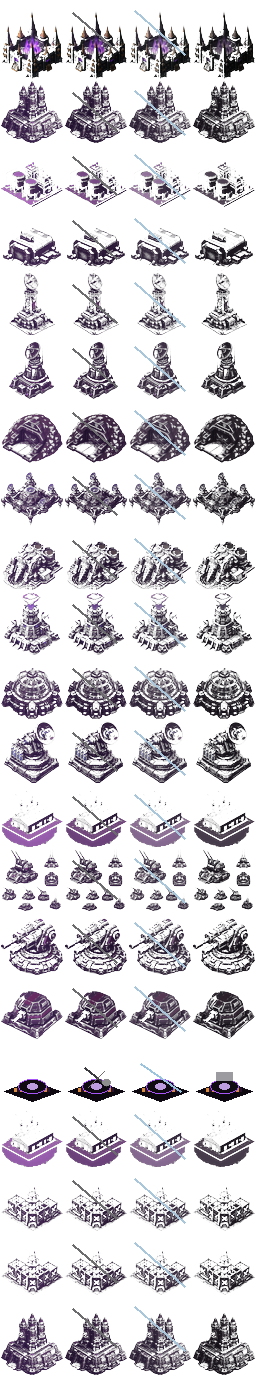
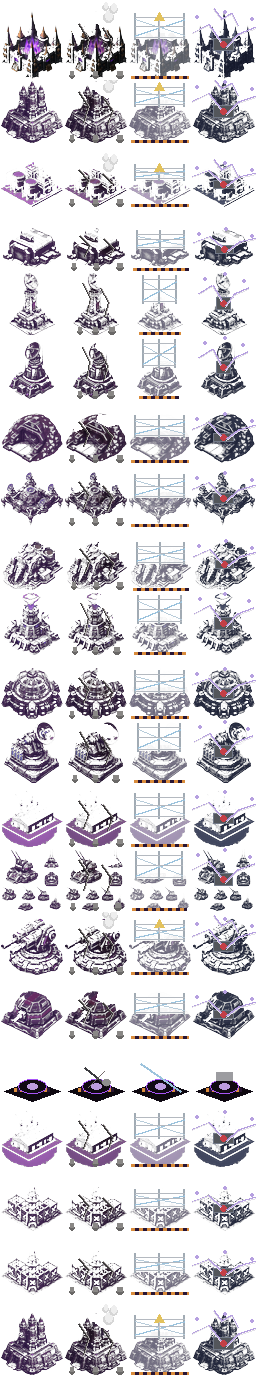
P0: hero-quality building damaged/construction/disabled frames (#10)
Replace tint-only state overlays with compositing that changes silhouette:
roof bites and rubble for damaged, scaffold/cutaway for construction, and
EMP arcs plus offline panel for disabled. Priority on HQ, Energy, Missile,
Turret (applied across hero building rows). Regenerate building atlases.

diff --git a/scripts/generate-game-atlases.py b/scripts/generate-game-atlases.py
@@ -597,23 +597,270 @@ BUILDING_ROWS = [
 ]
 STATES = ["idle", "damaged", "construction", "disabled"]
 
+# Priority P0 buildings get the richest state frames; others still get compositing.
+PRIORITY_STATE_LABELS = {"HQ", "ENERGY", "MISSILE", "TURRET", "ICBM"}
 
-def tint_state(cell: Image.Image, state: str) -> Image.Image:
+
+def _opaque_bbox(cell: Image.Image) -> tuple[int, int, int, int] | None:
+    """Return (x0,y0,x1,y1) covering opaque pixels, or None if empty."""
+    px = cell.load()
+    w, h = cell.size
+    xs, ys = [], []
+    for y in range(h):
+        for x in range(w):
+            if px[x, y][3] > 24:
+                xs.append(x)
+                ys.append(y)
+    if not xs:
+        return None
+    return min(xs), min(ys), max(xs), max(ys)
+
+
+def _punch_hole(cell: Image.Image, poly: list[tuple[int, int]], soft: int = 1) -> None:
+    """Cut a jagged hole out of the silhouette (alpha → 0)."""
+    mask = new_rgba(*cell.size)
+    md = ImageDraw.Draw(mask)
+    md.polygon(poly, fill=(0, 0, 0, 255))
+    if soft > 0:
+        # slightly expand for readable bite at 64px
+        md.line(poly + [poly[0]], fill=(0, 0, 0, 255), width=soft)
+    mp = mask.load()
+    px = cell.load()
+    w, h = cell.size
+    for y in range(h):
+        for x in range(w):
+            if mp[x, y][3] > 0 and px[x, y][3] > 0:
+                r, g, b, a = px[x, y]
+                px[x, y] = (r, g, b, 0)
+
+
+def _scorch_patch(cell: Image.Image, cx: int, cy: int, rx: int, ry: int, strength: float = 0.35) -> None:
+    """Darken an elliptical burn patch in place."""
+    px = cell.load()
+    w, h = cell.size
+    for y in range(max(0, cy - ry - 1), min(h, cy + ry + 2)):
+        for x in range(max(0, cx - rx - 1), min(w, cx + rx + 2)):
+            r, g, b, a = px[x, y]
+            if a < 16:
+                continue
+            nx = (x - cx) / max(1, rx)
+            ny = (y - cy) / max(1, ry)
+            if nx * nx + ny * ny > 1.0:
+                continue
+            fall = 1.0 - math.sqrt(nx * nx + ny * ny)
+            f = 1.0 - strength * fall
+            px[x, y] = (
+                max(0, int(r * f)),
+                max(0, int(g * f * 0.92)),
+                max(0, int(b * f * 0.85)),
+                a,
+            )
+
+
+def hero_state_frame(
+    cell: Image.Image,
+    state: str,
+    label: str,
+    palette,
+) -> Image.Image:
+    """Compose distinct damaged / construction / disabled frames from a hero idle cell.
+
+    Tint-only overlays are not enough at combat zoom — silhouettes and mass must change.
+    """
     if state == "idle":
         return cell
+
+    w, h = cell.size
+    bbox = _opaque_bbox(cell)
+    if bbox is None:
+        return cell
+    x0, y0, x1, y1 = bbox
+    bw, bh = max(1, x1 - x0), max(1, y1 - y0)
+    rich = label in PRIORITY_STATE_LABELS
     out = cell.copy()
+
     if state == "damaged":
-        out = ImageEnhance.Brightness(out).enhance(0.72)
+        # Scorch + crush brightness so hull reads wounded before we bite chunks.
+        out = ImageEnhance.Brightness(out).enhance(0.78 if rich else 0.82)
+        out = ImageEnhance.Color(out).enhance(0.85)
+        _scorch_patch(out, x0 + bw // 3, y0 + bh // 3, max(6, bw // 5), max(5, bh // 6), 0.55)
+        _scorch_patch(out, x0 + (2 * bw) // 3, y0 + bh // 2, max(5, bw // 6), max(4, bh // 7), 0.42)
+
+        # Bite chunks out of the roof / upper mass — silhouette must change.
+        bites = [
+            [
+                (x0 + int(bw * 0.55), y0 + 1),
+                (x0 + int(bw * 0.78), y0 + int(bh * 0.08)),
+                (x0 + int(bw * 0.92), y0 + int(bh * 0.22)),
+                (x0 + int(bw * 0.70), y0 + int(bh * 0.28)),
+                (x0 + int(bw * 0.52), y0 + int(bh * 0.18)),
+            ],
+            [
+                (x0 + int(bw * 0.08), y0 + int(bh * 0.20)),
+                (x0 + int(bw * 0.22), y0 + int(bh * 0.12)),
+                (x0 + int(bw * 0.34), y0 + int(bh * 0.30)),
+                (x0 + int(bw * 0.18), y0 + int(bh * 0.38)),
+            ],
+        ]
+        if rich:
+            bites.append(
+                [
+                    (x0 + int(bw * 0.40), y0 + int(bh * 0.02)),
+                    (x0 + int(bw * 0.58), y0 + int(bh * 0.00)),
+                    (x0 + int(bw * 0.62), y0 + int(bh * 0.14)),
+                    (x0 + int(bw * 0.44), y0 + int(bh * 0.16)),
+                ]
+            )
+        for poly in bites:
+            _punch_hole(out, poly, soft=2 if rich else 1)
+
         d = ImageDraw.Draw(out)
-        d.line([(8, 12), (52, 50)], fill=(20, 20, 25, 200), width=2)
+        # Crack polylines through remaining mass
+        cracks = [
+            [
+                (x0 + int(bw * 0.22), y0 + int(bh * 0.18)),
+                (x0 + int(bw * 0.38), y0 + int(bh * 0.42)),
+                (x0 + int(bw * 0.30), y0 + int(bh * 0.68)),
+            ],
+            [
+                (x0 + int(bw * 0.62), y0 + int(bh * 0.25)),
+                (x0 + int(bw * 0.78), y0 + int(bh * 0.48)),
+                (x0 + int(bw * 0.70), y0 + int(bh * 0.72)),
+            ],
+        ]
+        for pts in cracks:
+            d.line(pts, fill=(18, 14, 16, 230), width=2)
+            d.line([(p[0] + 1, p[1]) for p in pts], fill=(55, 30, 28, 160), width=1)
+
+        # Rubble / debris at the pad
+        rubble_y = min(h - 3, y1 - 2)
+        for i, rx in enumerate((x0 + 4, x0 + bw // 2 - 3, x1 - 10)):
+            rw = 5 + (i % 3)
+            d.ellipse([rx, rubble_y - 3, rx + rw, rubble_y + 2], fill=(42, 40, 38, 210))
+            d.rectangle([rx + 1, rubble_y - 5, rx + rw - 1, rubble_y - 1], fill=(60, 55, 50, 190))
+
+        # Smoke puffs rising from the wound (priority buildings)
+        if rich:
+            for sx, sy, rr in (
+                (x0 + int(bw * 0.72), y0 + int(bh * 0.10), 5),
+                (x0 + int(bw * 0.80), y0 - 2, 4),
+                (x0 + int(bw * 0.66), y0 - 4, 3),
+            ):
+                d.ellipse([sx - rr, sy - rr, sx + rr, sy + rr], fill=(70, 72, 78, 110))
+                d.ellipse([sx - rr + 2, sy - rr - 2, sx + rr - 1, sy + rr - 2], fill=(90, 92, 98, 70))
+
     elif state == "construction":
-        out = ImageEnhance.Color(out).enhance(0.5)
+        # Incomplete mass: keep only the lower portion of the hero, fade the rest.
+        cut = y0 + int(bh * (0.42 if rich else 0.50))
+        px = out.load()
+        for y in range(h):
+            for x in range(w):
+                r, g, b, a = px[x, y]
+                if a < 8:
+                    continue
+                if y < cut:
+                    # upper mass gone / ghost scaffolding only
+                    fade = max(0, int(a * (0.08 if y < cut - 6 else 0.22)))
+                    px[x, y] = (r, g, b, fade)
+                else:
+                    # unfinished hull — desat + slight transparency
+                    grey = (r + g + b) // 3
+                    nr = int(r * 0.45 + grey * 0.35 + 40)
+                    ng = int(g * 0.45 + grey * 0.35 + 45)
+                    nb = int(b * 0.45 + grey * 0.35 + 55)
+                    px[x, y] = (min(255, nr), min(255, ng), min(255, nb), min(255, int(a * 0.88)))
+
         d = ImageDraw.Draw(out)
-        d.line([(6, 10), (56, 54)], fill=(120, 200, 255, 180), width=2)
+        # Steel frame / rebar rising above the cut
+        frame_top = max(2, y0 + 2)
+        posts = [x0 + 6, x0 + bw // 2, x1 - 6]
+        for px_ in posts:
+            d.line([(px_, cut), (px_, frame_top)], fill=(150, 165, 180, 220), width=2)
+        # Cross braces
+        d.line([(posts[0], cut - 4), (posts[2], frame_top + 6)], fill=(120, 200, 255, 200), width=2)
+        d.line([(posts[2], cut - 4), (posts[0], frame_top + 6)], fill=(120, 200, 255, 160), width=1)
+        # Horizontal beams
+        for by in (frame_top + 4, (frame_top + cut) // 2, cut - 2):
+            d.line([(posts[0], by), (posts[2], by)], fill=(170, 180, 195, 200), width=1)
+
+        # Hazard stripe pad at the base
+        hazard_strip(d, x0 + 2, min(h - 4, y1 - 1), x1 - 2, min(h - 2, y1 + 2), palette, 4)
+        # Crane hook / lifting triangle (reads “under construction” at 64px)
+        if rich:
+            hx = x0 + bw // 2
+            d.polygon(
+                [(hx, frame_top - 1), (hx - 5, frame_top + 7), (hx + 5, frame_top + 7)],
+                fill=(245, 200, 60, 230),
+            )
+            d.line([(hx, frame_top + 7), (hx, cut - 8)], fill=(200, 200, 210, 180), width=1)
+
     elif state == "disabled":
-        out = ImageEnhance.Brightness(out).enhance(0.55)
-        out = ImageEnhance.Color(out).enhance(0.35)
+        # Heavy desat + dim — systems offline
+        out = ImageEnhance.Brightness(out).enhance(0.52)
+        out = ImageEnhance.Color(out).enhance(0.28)
+        # Crush remaining chroma toward cold steel
+        px = out.load()
+        for y in range(h):
+            for x in range(w):
+                r, g, b, a = px[x, y]
+                if a < 8:
+                    continue
+                grey = (r + g + b) // 3
+                nr = int(grey * 0.75 + 18)
+                ng = int(grey * 0.78 + 22)
+                nb = int(grey * 0.88 + 40)
+                px[x, y] = (nr, ng, nb, a)
+
+        d = ImageDraw.Draw(out)
+        # Dark offline panel bolted on the facade
+        panel_w = max(14, bw // 3)
+        panel_h = max(8, bh // 5)
+        pcx = x0 + bw // 2
+        pcy = y0 + bh // 2
+        d.rectangle(
+            [pcx - panel_w // 2, pcy - panel_h // 2, pcx + panel_w // 2, pcy + panel_h // 2],
+            fill=(28, 32, 40, 220),
+            outline=(90, 100, 120, 230),
+        )
+        # Red “offline” LED + cyan EMP arcs for battle readability
+        d.ellipse([pcx - 3, pcy - 3, pcx + 3, pcy + 3], fill=(200, 40, 50, 240))
+        cyan = (80, 220, 240, 210) if faction_is_player_palette(palette) else (180, 140, 255, 210)
+        # EMP lightning arcs that extend past the hull (silhouette change)
+        arcs = [
+            [
+                (x0 - 2, y0 + bh // 3),
+                (x0 + int(bw * 0.25), y0 + int(bh * 0.20)),
+                (x0 + int(bw * 0.45), y0 + int(bh * 0.45)),
+            ],
+            [
+                (x1 + 2, y0 + bh // 4),
+                (x0 + int(bw * 0.75), y0 + int(bh * 0.35)),
+                (x0 + int(bw * 0.55), y0 + int(bh * 0.55)),
+            ],
+        ]
+        if rich:
+            arcs.append(
+                [
+                    (pcx - 10, y0 - 3),
+                    (pcx - 2, y0 + 8),
+                    (pcx + 8, y0 + 2),
+                    (pcx + 14, y0 + 14),
+                ]
+            )
+        for pts in arcs:
+            d.line(pts, fill=cyan, width=2)
+            d.line([(p[0], p[1] + 1) for p in pts], fill=(*cyan[:3], 100), width=1)
+        # Corner sparks
+        for sx, sy in ((x0 + 2, y0 + 4), (x1 - 4, y0 + 6), (pcx, y0 - 1)):
+            d.ellipse([sx, sy, sx + 3, sy + 3], fill=cyan)
+
     return out
+
+
+def faction_is_player_palette(palette) -> bool:
+    """Heuristic: player glow is warm/red; enemy glow is purple."""
+    g = palette.get("glow", (0, 0, 0, 0))
+    return g[0] > g[2]
 
 
 def make_buildings(
@@ -633,7 +880,12 @@ def make_buildings(
         hero = heroes.get(label)
         for si, state in enumerate(STATES):
             if hero is not None:
-                cell = tint_state(fit_rgba(hero, 64, h, pad=1), state)
+                cell = hero_state_frame(
+                    fit_rgba(hero, 64, h, pad=1),
+                    state,
+                    label,
+                    palette,
+                )
             else:
                 cell = building_block(palette, label, state, 64, h, faction=faction)
             if state == "idle":
@@ -704,7 +956,12 @@ def make_units(hero_player: Image.Image | None, hero_enemy: Image.Image | None):
             if hero is not None and pose == "idle":
                 frame = fit_rgba(hero, 40, 48, pad=1)
             elif hero is not None and pose != "dead":
-                frame = tint_state(fit_rgba(hero, 40, 48, pad=1), "damaged" if pose == "fighting" else "idle")
+                frame = fit_rgba(hero, 40, 48, pad=1)
+                if pose == "fighting":
+                    # Temporary until P0 #4 ships distinct fight poses.
+                    frame = ImageEnhance.Brightness(frame).enhance(0.85)
+                    fd = ImageDraw.Draw(frame)
+                    fd.line([(6, 10), (34, 38)], fill=(20, 20, 25, 160), width=1)
                 if pose == "walking":
                     frame = frame.rotate(4 if oi == 0 else -4, resample=Image.Resampling.BICUBIC, expand=False)
             else:

diff --git a/AGENTS.md b/AGENTS.md
@@ -26,8 +26,8 @@ and record why in Memories.
 #### P0 — Battlefield still feels sparse / soft
 1. [x] Forest tiles: denser canopy clumps that read as trees at combat zoom (not
       green blobs). Regenerate terrain atlas; hard-refresh proof screenshot.
-2. [ ] Building damaged/construction/disabled states: hero-quality frames (not
-      just tint overlays) for HQ, Energy, Missile, Turret at minimum.
+2. [x] Building damaged/construction/disabled states: hero-quality frames (not
+   just tint overlays) for HQ, Energy, Missile, Turret at minimum.
 3. [ ] Projectile + FX atlas upgrade: thicker missiles, bigger explosion flipbooks,
       visible mech drop pods (battlefeel vs SNES remake).
 4. [ ] Mech walk/fight frames: distinct poses from hero art (not rotate/tint of idle).
